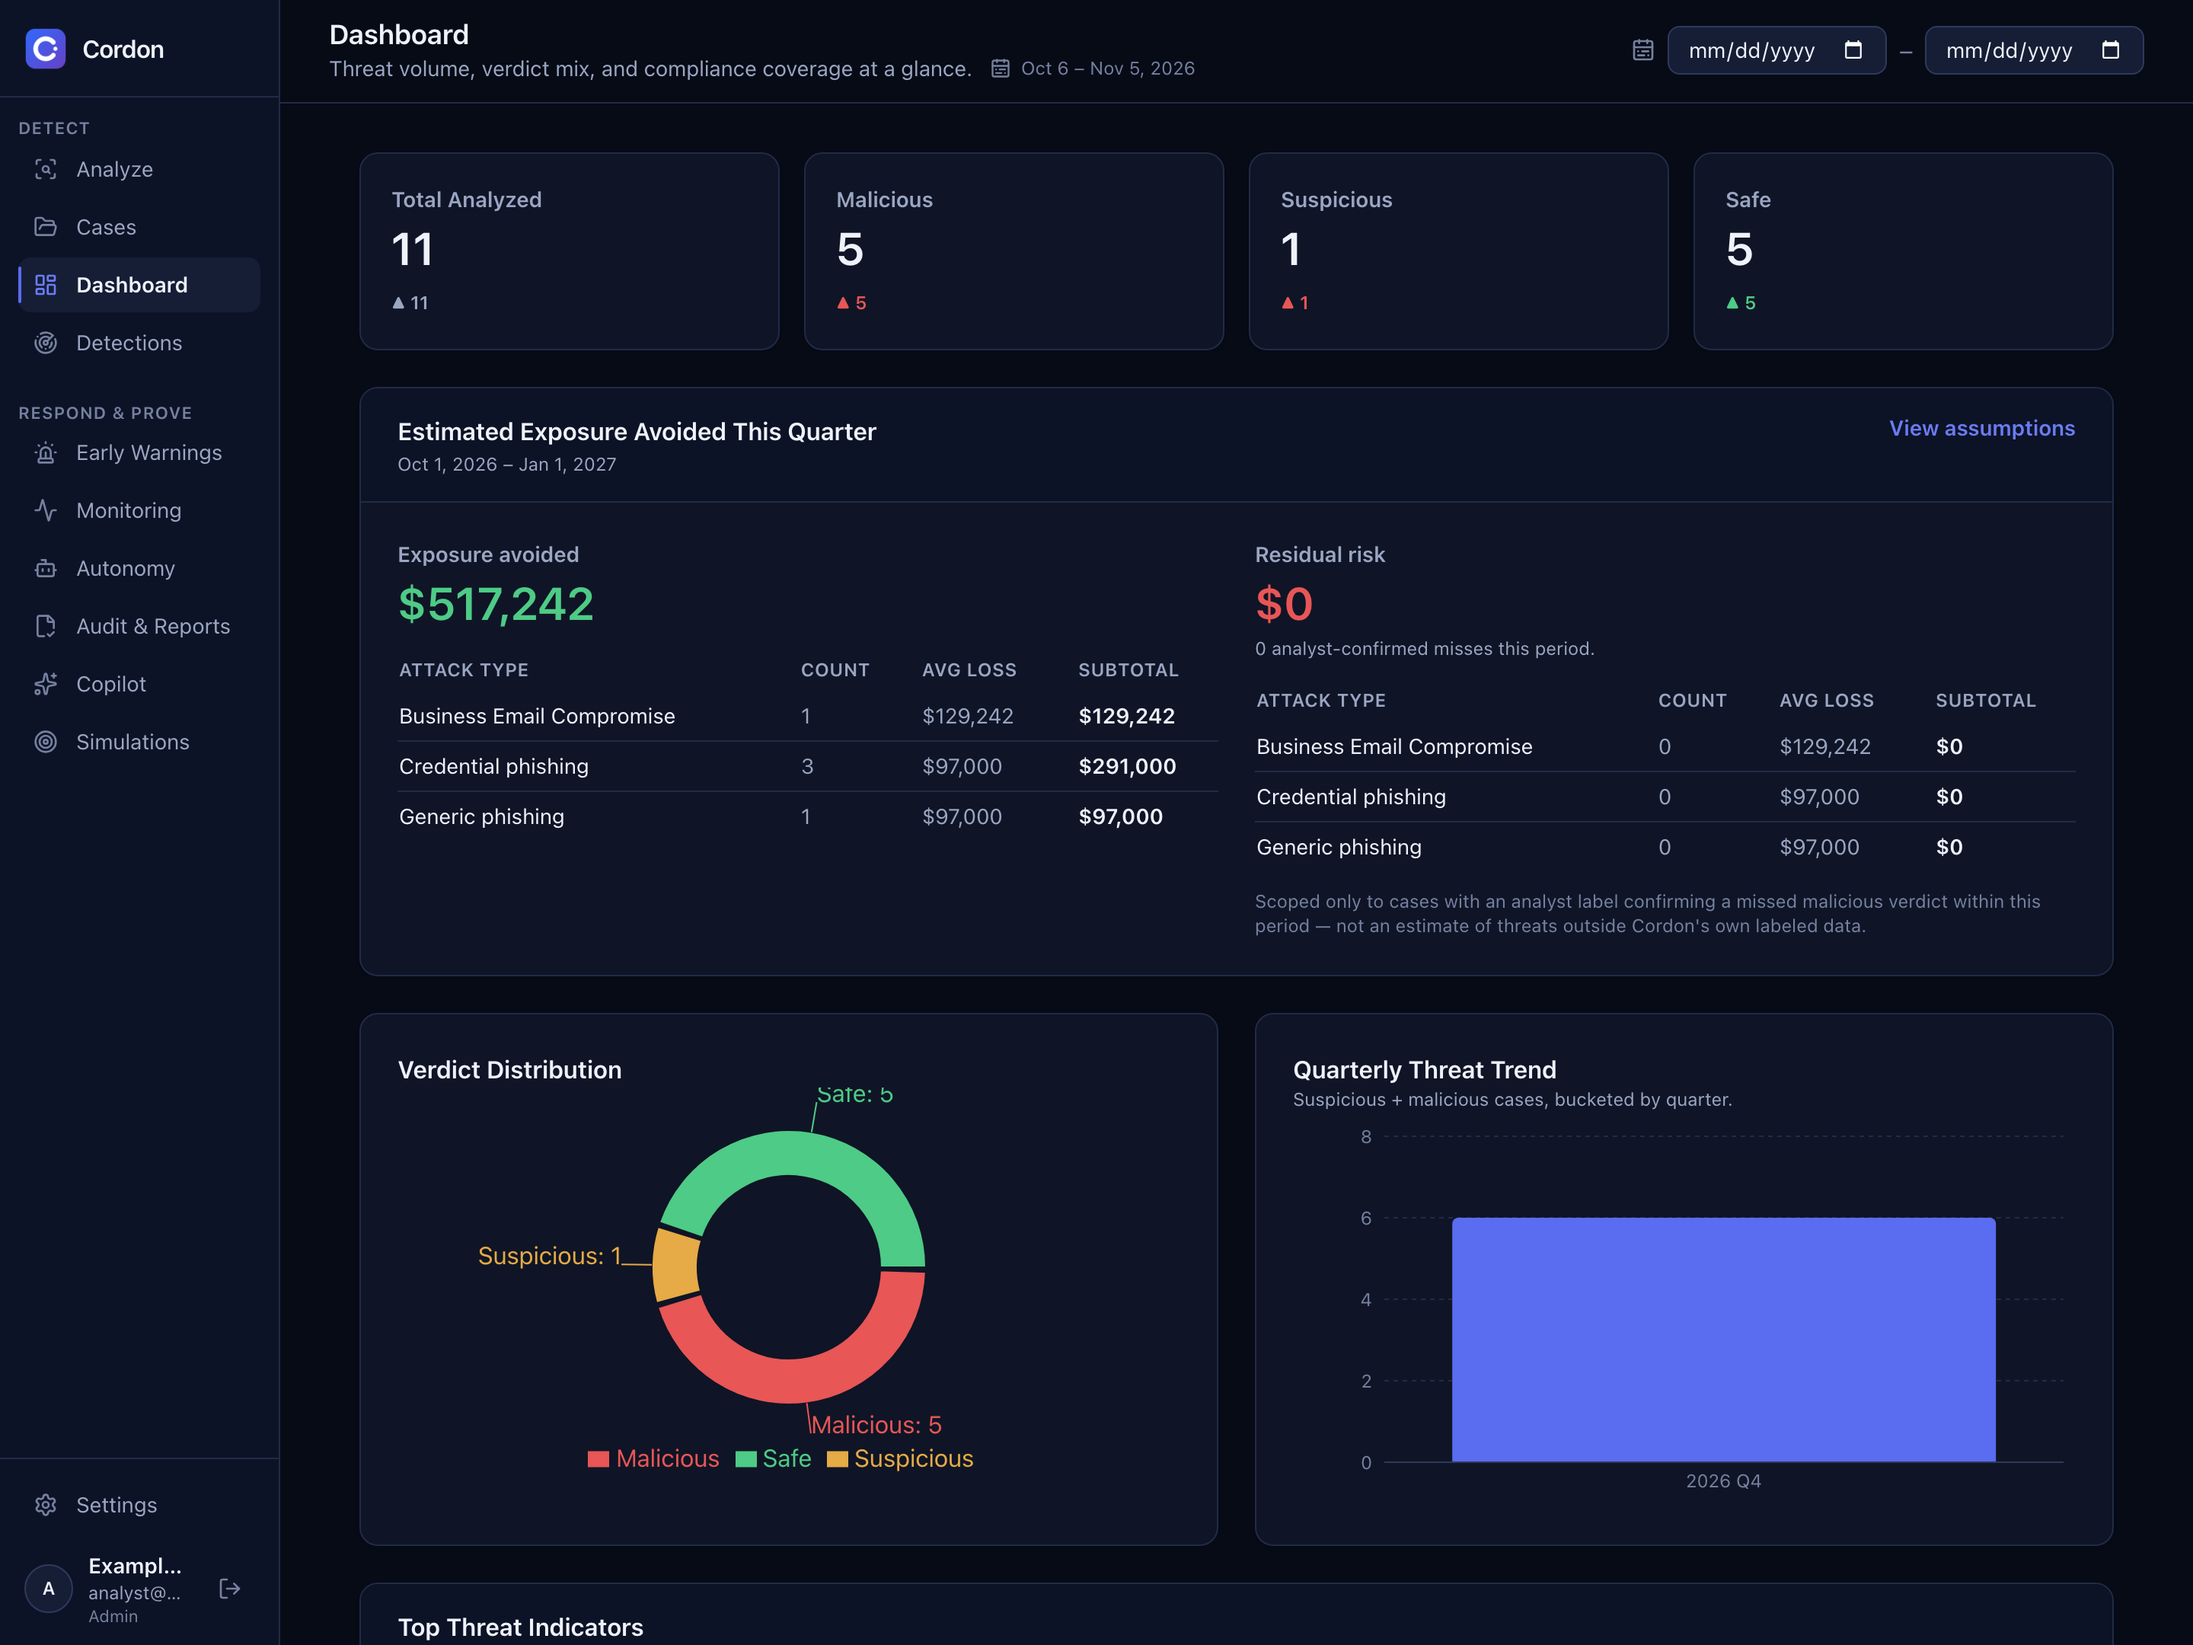
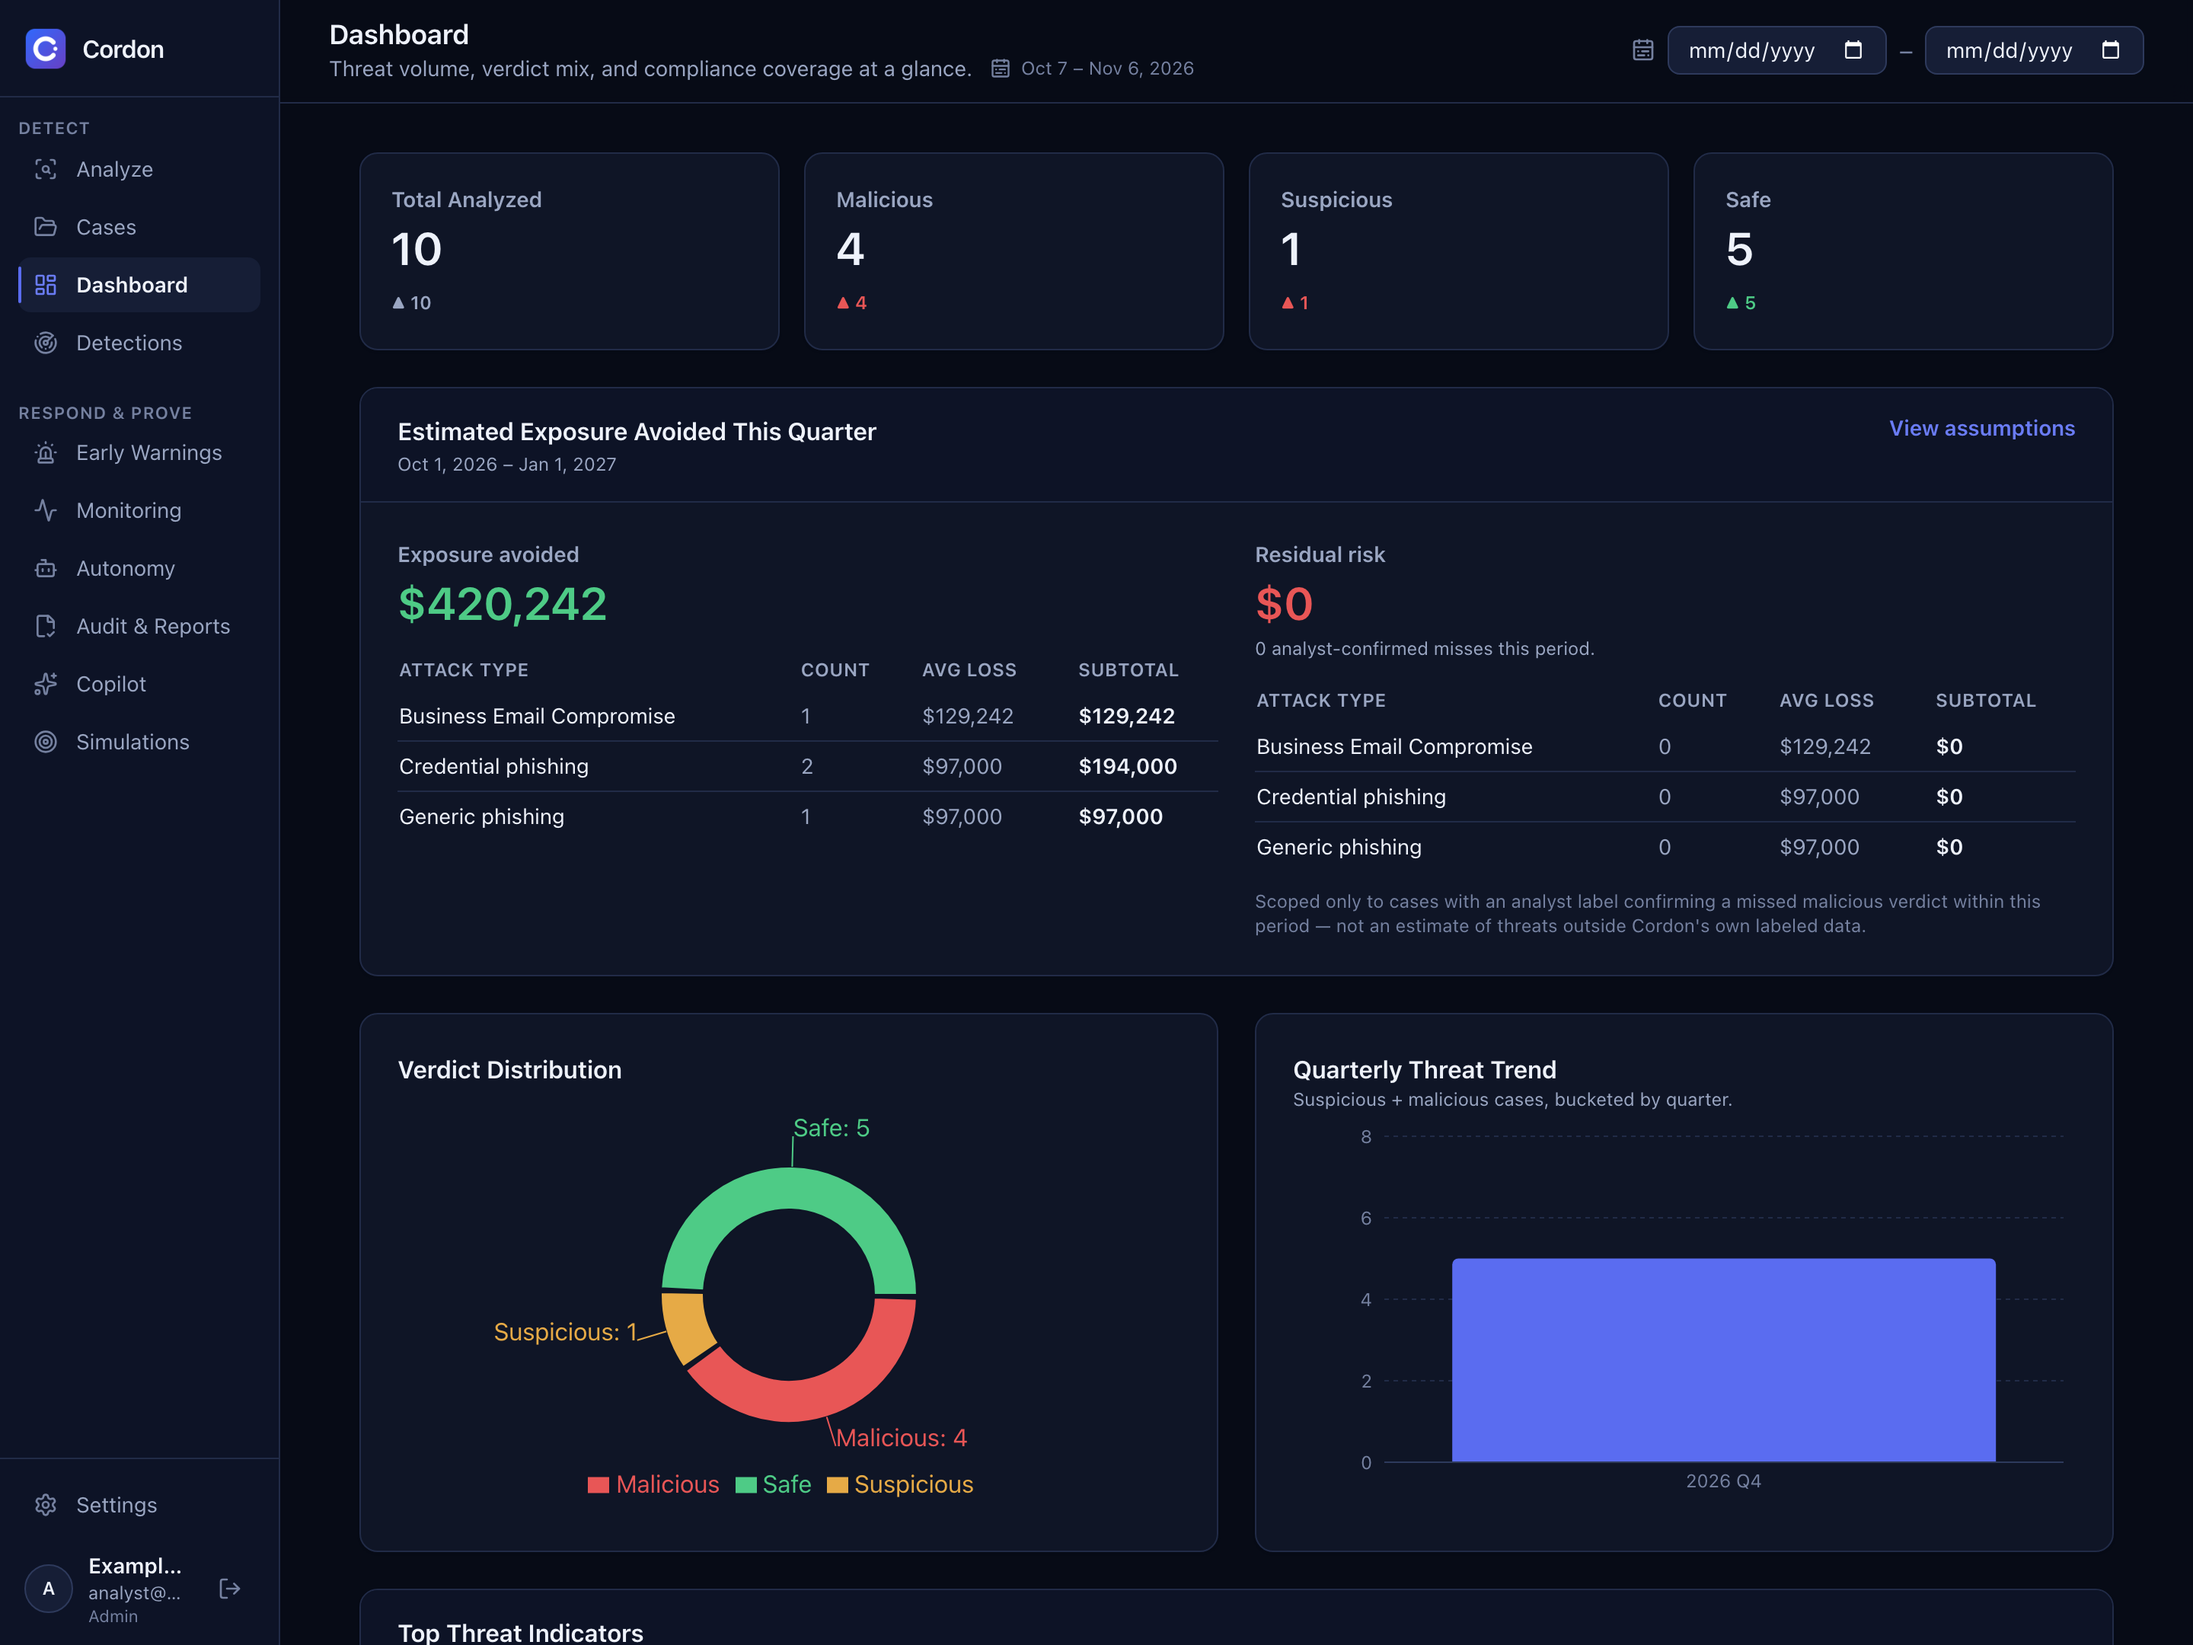
Marketing site: recapture screenshots with app fixes; honest tour step-1 copy
- analyze-malicious, dashboard, security-compliance-report-sample recaptured from
  a fresh isolated local instance (synthetic data, placeholder org "Example Co",
  LLM off) after the donut-label and report-palette fixes in bde64af.
- Tour step 1 no longer promises an AI analyst narrative the screenshot doesn't
  show; it describes what's on screen (verdict, 0-100 score, auth results,
  indicators).

diff --git a/site/components/ProductTour.tsx b/site/components/ProductTour.tsx
@@ -196,7 +196,7 @@ const STEPS = [
   {
     title: "Email analysis",
     description:
-      "Every message gets a deterministic verdict plus an AI analyst narrative in under 2 seconds.",
+      "Every message gets a deterministic verdict and a 0–100 risk score, with the sender-authentication results and indicators that drove it.",
   },
   {
     title: "Findings → controls",
